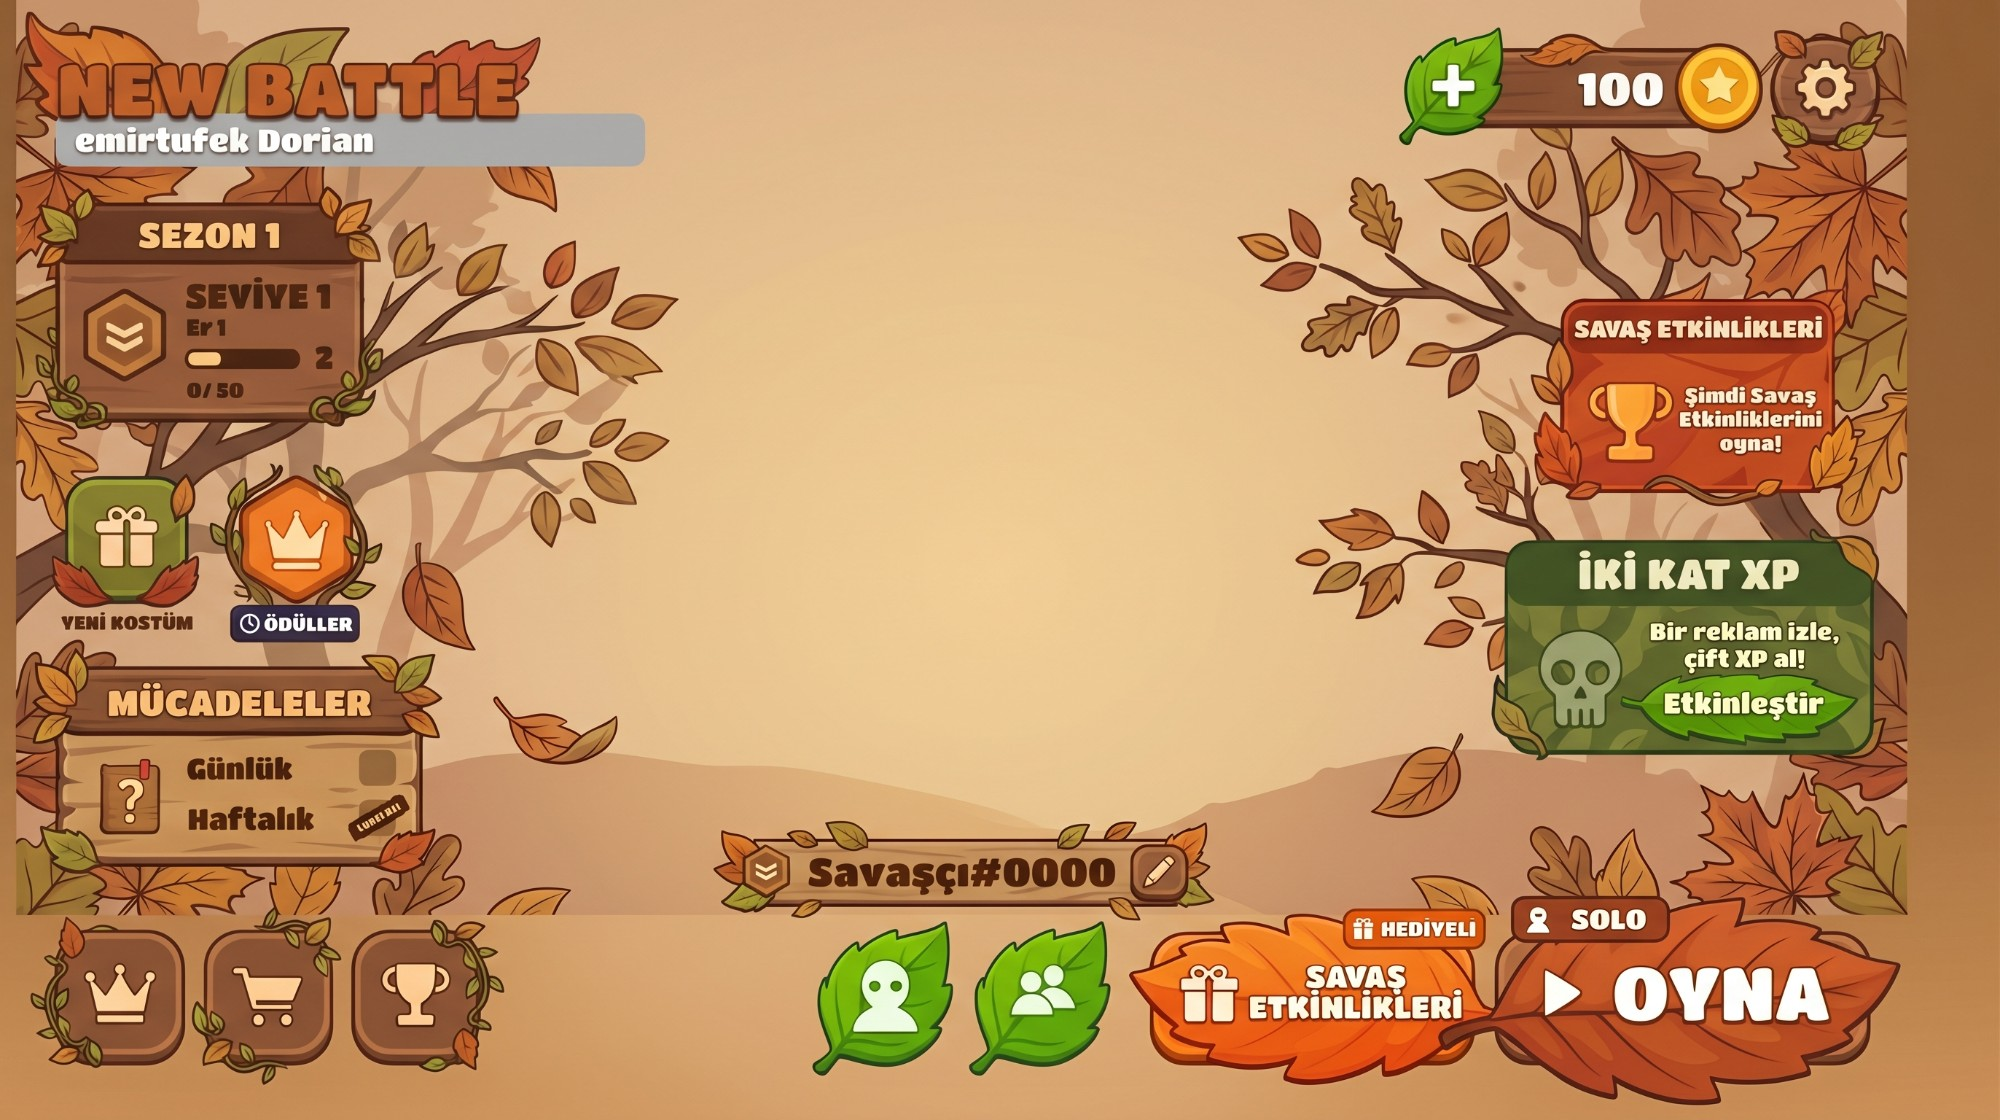
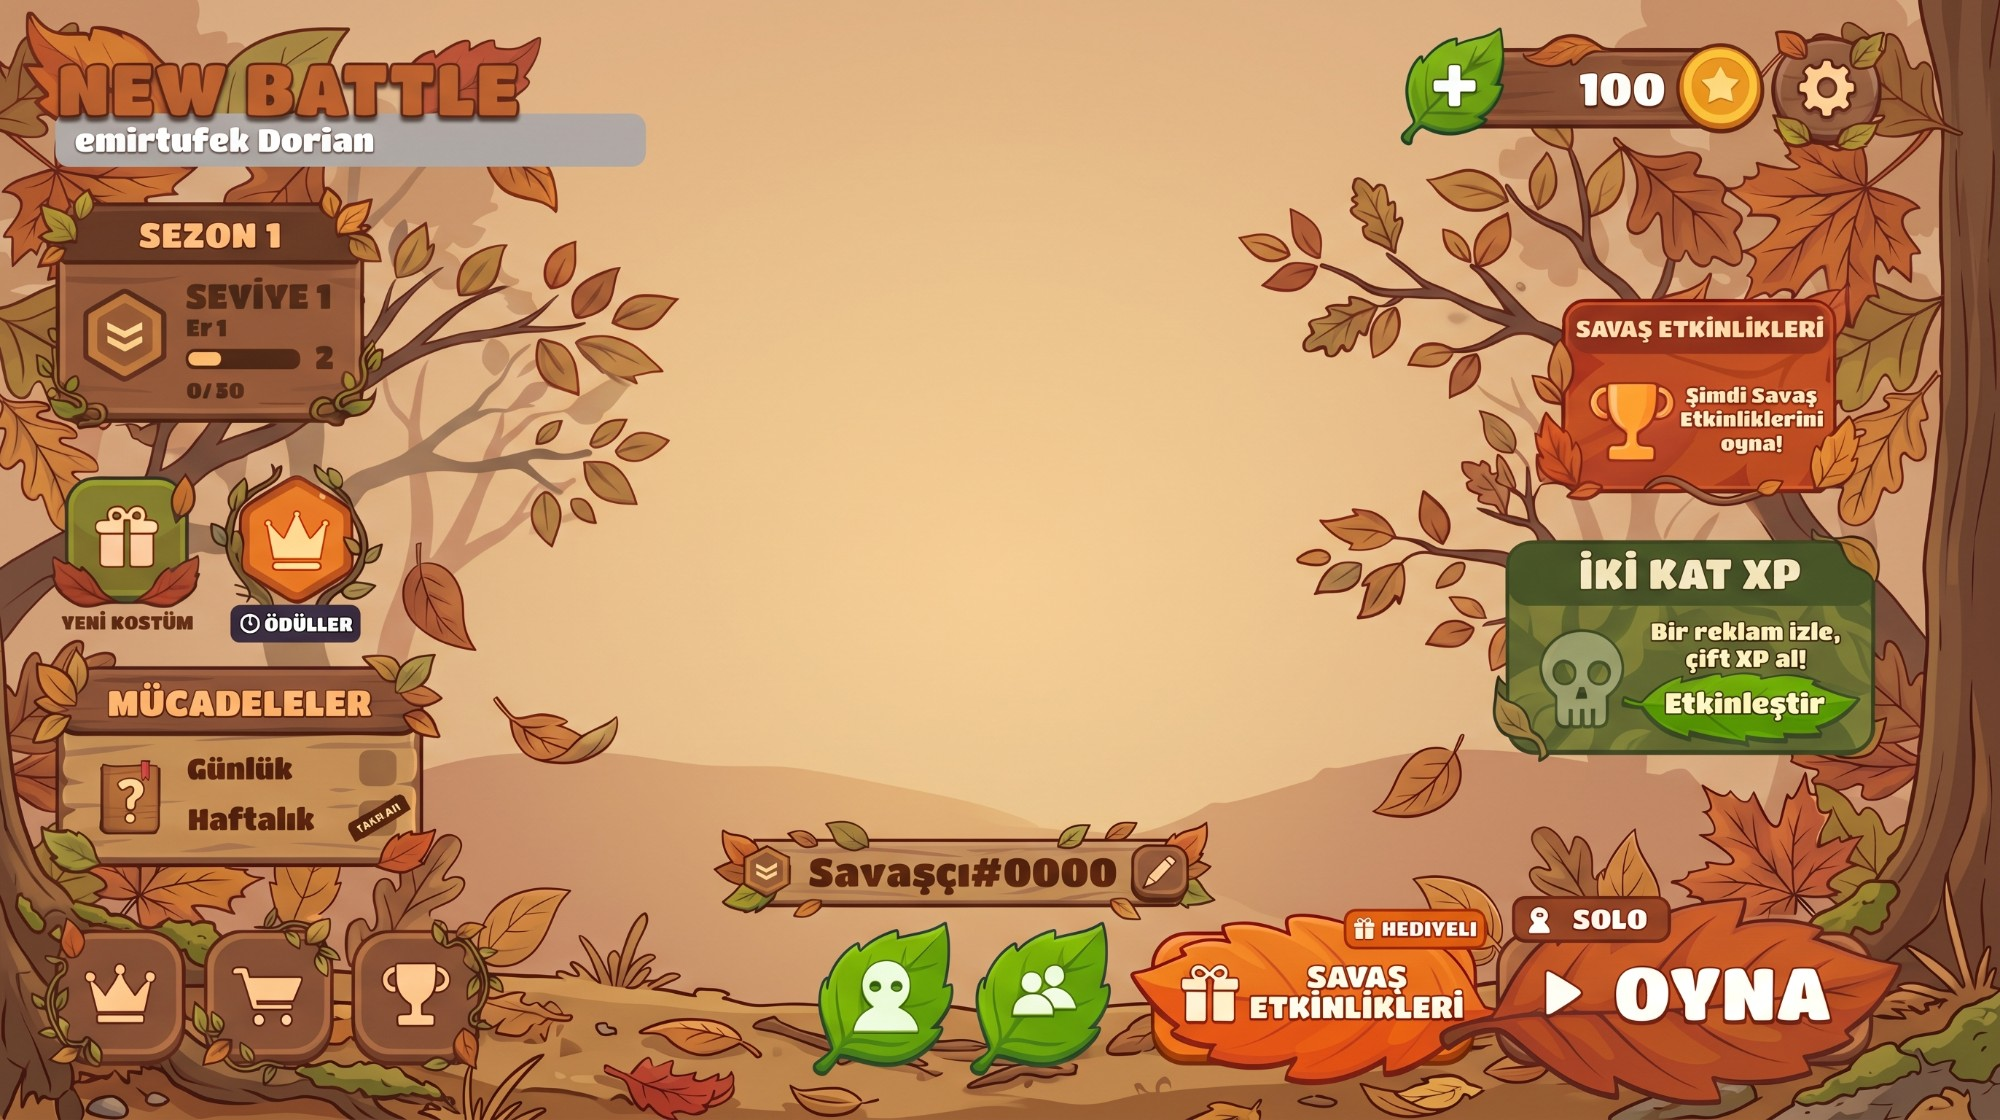
Ana menu yeni tasarim resmiyle bastan: tam resim (2000x1120) ekrani kaplar, alt ve sag kenar ormanli; logonun altindaki gri cubuk ve online sayaci kaldirildi; mevcut menu yeni olcuye gore yeniden yerlesir

diff --git a/Assets/Editor/Menu/MainMenuBuilder.AutumnMenu.cs b/Assets/Editor/Menu/MainMenuBuilder.AutumnMenu.cs
@@ -10,18 +10,19 @@ namespace NewBattle.EditorTools
 {
     /// <summary>
     /// Sonbahar ana menu = kullanicinin tasarim resmi birebir (tasarim_sonbahar.png).
-    ///   - Resim ana menunun gorunumudur (oran korunur, kenarlarda bg_sonbahar).
+    ///   - Resim ana menunun gorunumudur, ekrani tam kaplar (eski menu hic gorunmez).
     ///   - Butonlar resimdeki buton resimlerinin tam ustunde gorunmez basma alanlari.
-    ///   - Degisen yazilar (para, seviye, XP, isim, mod, online, cift XP) resimden silindi;
-    ///     yerine oyunun gercek degerleri ayni yere yazilir.
-    /// Koordinatlar tasarim resminin piksel olcusunde (2000x1120 kaynak, soldan 16 px kirpik).
-    /// Unity derleyince bir kez kendiliginden uygulanir. Geri: tag "safe-oncesi-sonbahar-menu".
+    ///   - Degisen yazilar (para, seviye, XP, isim, mod, cift XP) resimden silindi;
+    ///     yerine oyunun gercek degerleri ayni yere yazilir. Logonun altindaki gri cubuk ve
+    ///     online sayaci yok.
+    /// Koordinatlar tasarim resminin piksel olcusunde (2000x1120, tam resim).
+    /// Unity derleyince bir kez kendiliginden uygulanir (resim olcusu degisince yeniden yerlesir). Geri: tag "safe-oncesi-sonbahar-menu".
     /// </summary>
     public static partial class MainMenuBuilder
     {
         private const string DesignSprite = "tasarim_sonbahar";
         private const string DesignBackground = "bg_sonbahar";
-        private const float DesignLeft = 16f, DesignWidth = 1884f, DesignHeight = 1120f;
+        private const float DesignLeft = 0f, DesignWidth = 2000f, DesignHeight = 1120f;
 
         private static readonly (string name, Vector4 rect)[] DesignHits =
         {
@@ -64,8 +65,16 @@ namespace NewBattle.EditorTools
 
             Canvas canvas = FindGameCanvas();
             MainMenuScreen screen = canvas != null ? canvas.GetComponentInChildren<MainMenuScreen>(true) : null;
-            if (screen != null && screen.transform.Find("Tasarim") == null)
+            if (screen != null && !AutumnMenuCurrent(screen.transform))
                 ApplyAutumnMenu(screen.transform);
+        }
+
+        /// <summary>Tasarim katmani var ve guncel resim olcusuyle tam ekran mi?</summary>
+        private static bool AutumnMenuCurrent(Transform root)
+        {
+            AspectRatioFitter fitter = root.Find("Tasarim")?.GetComponent<AspectRatioFitter>();
+            return fitter != null && fitter.aspectMode == AspectRatioFitter.AspectMode.None &&
+                   Mathf.Abs(fitter.aspectRatio - DesignWidth / DesignHeight) < 0.001f;
         }
 
         [MenuItem("Tools/NewBattle/Menü/Sonbahar Ana Menü (tasarım resmi)", false, 6)]
@@ -73,7 +82,7 @@ namespace NewBattle.EditorTools
         {
             Canvas canvas = FindGameCanvas();
             MainMenuScreen screen = canvas != null ? canvas.GetComponentInChildren<MainMenuScreen>(true) : null;
-            if (screen != null && screen.transform.Find("Tasarim") == null)
+            if (screen != null)
                 ApplyAutumnMenu(screen.transform);
         }
 
@@ -97,33 +106,46 @@ namespace NewBattle.EditorTools
                 menuBackground.color = Color.white;
             }
 
-            // Tasarim resmi: oran korunur, ekrana sigar (genis telefonda kenarlarda arka plan).
-            RectTransform layer = NewRect("Tasarim", rootRect);
-            Undo.RegisterCreatedObjectUndo(layer.gameObject, "Tasarim");
-            Stretch(layer, 0f, 0f, 0f, 0f);
-            Image layerImage = AddImage(layer, design, Color.white);
-            layerImage.type = Image.Type.Simple;
-            AspectRatioFitter fitter = layer.gameObject.AddComponent<AspectRatioFitter>();
-            fitter.aspectMode = AspectRatioFitter.AspectMode.FitInParent;
+            // Tasarim resmi: ekrani tam kaplar (oran farki kucuk; basma alanlari resimle birlikte uzar).
+            // Varsa ayni katman yeni resme gore yeniden yerlesir.
+            RectTransform layer = root.Find("Tasarim") as RectTransform;
+            if (layer == null)
+            {
+                layer = NewRect("Tasarim", rootRect);
+                Undo.RegisterCreatedObjectUndo(layer.gameObject, "Tasarim");
+                AddImage(layer, design, Color.white).type = Image.Type.Simple;
+                layer.gameObject.AddComponent<AspectRatioFitter>();
+            }
+
+            Image layerImage = layer.GetComponent<Image>();
+            Undo.RecordObject(layerImage, "Resim");
+            layerImage.sprite = design;
+            layerImage.color = Color.white;
+            AspectRatioFitter fitter = layer.GetComponent<AspectRatioFitter>();
+            Undo.RecordObject(fitter, "Oran");
+            fitter.aspectMode = AspectRatioFitter.AspectMode.None;
             fitter.aspectRatio = DesignWidth / DesignHeight;
+            Undo.RecordObject(layer, "Tam ekran");
+            Stretch(layer, 0f, 0f, 0f, 0f);
+            layer.localScale = Vector3.one;
             layer.SetAsFirstSibling();
 
             Color cream = Hex("#F6E2C2");
             Color ink = Hex("#4E2D14");
 
             // Degisen yazilar once disari alinir (gizlenen kartlarin icinde kalmasinlar).
-            Transform season = FindDeep(root, "SezonKarti");
-            Transform wallet = FindDeep(root, "ParaPaneli");
-            Transform nameTag = FindDeep(root, "IsimEtiketi");
-            Transform play = FindDeep(root, "OynaButonu");
+            // Ekranin baglantilarindan bulunur: onceki uygulamada tasarim katmanina tasinmis olabilirler.
+            var screenRefs = new SerializedObject(root.GetComponent<MainMenuScreen>());
+            Transform Ref(string field) => (screenRefs.FindProperty(field)?.objectReferenceValue as Component)?.transform;
             Transform doubleXp = FindDeep(root, "CiftXpKarti");
+            Transform modeChip = Ref("modeChipText");
 
-            Overlay(wallet?.Find("ParaMiktari"), layer, new Vector4(1572, 58, 1672, 120), cream, TextAlignmentOptions.Center);
-            Overlay(season?.Find("Seviye"), layer, new Vector4(184, 276, 342, 318), cream, TextAlignmentOptions.Left);
-            Overlay(season?.Find("Rutbe"), layer, new Vector4(184, 316, 300, 342), cream, TextAlignmentOptions.Left);
-            Overlay(season?.Find("SonrakiSeviye"), layer, new Vector4(302, 338, 342, 374), cream, TextAlignmentOptions.Center);
-            Overlay(season?.Find("XpYazisi"), layer, new Vector4(184, 376, 300, 404), cream, TextAlignmentOptions.Left);
-            Transform xpBar = season?.Find("XpBari");
+            Overlay(Ref("coinText"), layer, new Vector4(1572, 58, 1672, 120), cream, TextAlignmentOptions.Center);
+            Overlay(Ref("levelText"), layer, new Vector4(184, 276, 342, 318), cream, TextAlignmentOptions.Left);
+            Overlay(Ref("rankText"), layer, new Vector4(184, 316, 300, 342), cream, TextAlignmentOptions.Left);
+            Overlay(Ref("nextLevelText"), layer, new Vector4(302, 338, 342, 374), cream, TextAlignmentOptions.Center);
+            Overlay(Ref("xpText"), layer, new Vector4(184, 376, 300, 404), cream, TextAlignmentOptions.Left);
+            Transform xpBar = Ref("xpFill")?.parent;
             if (xpBar is RectTransform xpRect)
             {
                 MapTo(xpRect, layer, new Vector4(184, 346, 298, 368));
@@ -131,10 +153,23 @@ namespace NewBattle.EditorTools
                 PaintImage(xpRect.Find("Dolum"), cream);
             }
 
-            Overlay(nameTag?.Find("Isim"), layer, new Vector4(806, 846, 1120, 898), ink, TextAlignmentOptions.Center);
-            Overlay(play?.Find("ModEtiketi/Yazi"), layer, new Vector4(1578, 902, 1662, 938), cream, TextAlignmentOptions.Center);
-            Overlay(FindDeep(root, "OnlineSayac"), layer, new Vector4(70, 116, 640, 162), Hex("#5A3A20"), TextAlignmentOptions.Left);
-            Overlay(doubleXp?.Find("Yazi"), layer, new Vector4(1636, 612, 1842, 676), Color.white, TextAlignmentOptions.Center);
+            Overlay(Ref("playerNameText"), layer, new Vector4(806, 846, 1120, 898), ink, TextAlignmentOptions.Center);
+            Overlay(modeChip, layer, new Vector4(1578, 902, 1662, 938), cream, TextAlignmentOptions.Center);
+            Transform doubleXpText = doubleXp?.Find("Yazi");
+            if (doubleXpText == null)
+            {
+                foreach (Transform child in layer)
+                    if (child.name == "Yazi" && child != modeChip)
+                        doubleXpText = child;
+            }
+            Overlay(doubleXpText, layer, new Vector4(1636, 612, 1842, 676), Color.white, TextAlignmentOptions.Center);
+
+            // Logonun altindaki gri cubuk / online sayaci istenmiyor: yazi kapanir.
+            if (Ref("onlineText") is Transform online && online.TryGetComponent(out TextMeshProUGUI onlineLabel))
+            {
+                Undo.RecordObject(onlineLabel, "Gizle");
+                onlineLabel.enabled = false;
+            }
 
             // Butonlar: resmin ustunde gorunmez basma alanlari.
             foreach ((string name, Vector4 rect) in DesignHits)

diff --git a/Tools/MenuArt/tasarim_hazirla.py b/Tools/MenuArt/tasarim_hazirla.py
@@ -1,12 +1,11 @@
 """
 Sonbahar menu tasarimlari: kullanicinin verdigi resimlerden oyun gorsellerini hazirlar.
   kaynak/sonbahar_arkaplan.jpg -> Assets/GameArt/MenuUI/bg_sonbahar.png (kenar kirpik)
-  kaynak/sonbahar_tasarim.jpg  -> Assets/GameArt/MenuUI/tasarim_sonbahar.png
-     - alttaki duz zemin seridi yerine orman devam eder (butonlar korunur)
+  kaynak/sonbahar_tasarim.jpg  -> Assets/GameArt/MenuUI/tasarim_sonbahar.png (tam resim, 2000x1120)
      - degisen yazilar silinir (para, seviye, isim, mod, online, cift XP); oyun canli yazar.
        Tahtalarda yazinin solundaki / sagindaki temiz tahtadan satir satir doku tasinir
-       (damarlar yatay oldugu icin bulaniklik olmaz); sahne uzerindeki yerlere bos arka
-       plan resmi konur.
+       (damarlar yatay oldugu icin bulaniklik olmaz). Logonun altindaki gri cubuk (yazisiyla)
+       tamamen kaldirilir, yerine bos arka plan resmi konur.
   kaynak/oyunmodu_tasarim.jpg  -> Assets/GameArt/MenuUI/tasarim_oyunmodu.png (oyun modu penceresi)
 
 Calistir:   python Tools/MenuArt/tasarim_hazirla.py   (opencv-python gerekir)
@@ -21,8 +20,7 @@ import numpy as np
 HERE = os.path.dirname(os.path.abspath(__file__))
 ROOT = os.path.dirname(os.path.dirname(HERE))
 OUT = os.path.join(ROOT, "Assets", "GameArt", "MenuUI")
-LEFT, RIGHT = 16, 1900  # resimlerin kenarlarindaki koyu cerceve disarida kalsin
-BAND_TOP = 912          # ana menu resminde alttaki duz zemin seridinin basladigi satir
+LEFT, RIGHT = 16, 1900  # arka plan resminin kenarlarindaki koyu cerceve disarida kalsin
 
 # Tahta uzerindeki yazilar (satir satir doku tasima)
 PLANK_TEXT = {
@@ -33,10 +31,8 @@ PLANK_TEXT = {
     "mod": (1562, 904, 1652, 936),
     "ciftxp": (1636, 612, 1840, 676),
 }
-# Sahne uzerindeki yazilar (bos arka plan resminden)
-SCENE_TEXT = {
-    "online": (34, 117, 664, 180),
-}
+# Logonun altindaki gri cubuk: tamamen kaldirilir (bos arka plan resminden)
+GREY_BAR = (34, 117, 664, 180)
 
 rng = np.random.default_rng(3)
 
@@ -63,49 +59,33 @@ def feather_paste(dst, src, x0, y0, x1, y1, soft=6):
     dst[y0:y1, x0:x1] = (region * (1 - alpha) + src[y0:y1, x0:x1].astype(float) * alpha).astype(np.uint8)
 
 
-def band_buttons_mask(design):
-    """Alt seritteki butonlarin maskesi: zemin (yumusak renk gecisi) tahmin edilip ondan ayrilir."""
-    top = BAND_TOP - 20
-    band = design[top:].copy()
-    rough = np.abs(band.astype(float) - cv2.medianBlur(band, 151).astype(float)).max(axis=2) > 28
-    rough = cv2.dilate(rough.astype(np.uint8), np.ones((31, 31), np.uint8))
-    small = cv2.resize(band, None, fx=0.25, fy=0.25, interpolation=cv2.INTER_AREA)
-    small_mask = cv2.resize(rough, (small.shape[1], small.shape[0]), interpolation=cv2.INTER_NEAREST)
-    background = cv2.inpaint(small, small_mask * 255, 15, cv2.INPAINT_TELEA)
-    background = cv2.GaussianBlur(cv2.resize(background, (band.shape[1], band.shape[0])), (0, 0), 6)
-
-    diff = np.abs(band.astype(float) - background.astype(float)).max(axis=2)
-    mask = (diff > 20).astype(np.uint8)
-    mask = cv2.morphologyEx(mask, cv2.MORPH_CLOSE, np.ones((9, 9), np.uint8))
-    # delikleri doldur (butonun ici)
-    contours, _ = cv2.findContours(mask, cv2.RETR_EXTERNAL, cv2.CHAIN_APPROX_SIMPLE)
-    filled = np.zeros_like(mask)
-    for contour in contours:
-        if cv2.contourArea(contour) > 400:
-            cv2.drawContours(filled, [contour], -1, 1, thickness=-1)
-    filled = cv2.dilate(filled, np.ones((5, 5), np.uint8))
-    soft = cv2.GaussianBlur(filled.astype(float), (0, 0), 2.0)
-    full = np.zeros(design.shape[:2], float)
-    full[top:] = soft
-    full[:BAND_TOP] = 1.0  # serit ustu: tasarim aynen
-    return full
-
-
-def extend_forest(design, background):
-    """Alt serit: arka plan sahnesinin alt kismi aynalanarak orman asagi devam eder."""
-    height = design.shape[0] - BAND_TOP
-    scene = background[BAND_TOP - height:BAND_TOP][::-1]
-    shade = np.linspace(1.0, 0.86, height)[:, None, None]
-    ground = (scene.astype(float) * shade).astype(np.uint8)
-    out = design.copy()
-    out[BAND_TOP:] = ground
-    # dikis yeri yumusak: tasarimin son satirlari ile karisir
-    blend = 24
-    for i in range(blend):
-        a = (i + 1) / (blend + 1)
-        y = BAND_TOP + i
-        out[y] = (design[BAND_TOP - 1 - i].astype(float) * (1 - a) + ground[i].astype(float) * a).astype(np.uint8)
-    return out
+def remove_grey_bar(design, clean):
+    """Logonun altindaki gri cubugu siler; logonun harfleri ve koyu kenari kalir."""
+    # Bos arka plan tasarimdan biraz farkli tonda: cubugun cevresindeki fark yumusakca iceri
+    # tasinip arka plana eklenir (yapistirilan yerin kenari gorunmesin).
+    x0, y0, x1, y1 = GREY_BAR
+    outside = np.ones(design.shape[:2], float)
+    outside[y0 - 4:y1 + 4, x0 - 4:x1 + 4] = 0.0
+    diff = design.astype(float) - clean.astype(float)
+    outside *= np.abs(diff).max(axis=2) < 25  # logo / yaprak gibi farkli icerik sayilmaz
+    weight = cv2.GaussianBlur(outside, (0, 0), 30)[..., None]
+    offset = cv2.GaussianBlur(diff * outside[..., None], (0, 0), 30) / np.maximum(weight, 1e-3)
+    clean = np.clip(clean.astype(float) + offset, 0, 255).astype(np.uint8)
+    feather_paste(design, clean, *GREY_BAR, soft=3)
+    # Cubugun logoya degen ust kenari: arka plandan daha gri (renksiz) ama ayni parlaklikta
+    # pikseller temizlenir.
+    strip = design[100:128, 34:664].astype(float)
+    base = clean[100:128, 34:664].astype(float)
+    chroma = strip.max(axis=2) - strip.min(axis=2)
+    base_chroma = base.max(axis=2) - base.min(axis=2)
+    same_light = np.abs(strip.mean(axis=2) - base.mean(axis=2)) < 35
+    alpha = (np.clip((base_chroma - chroma) / 20.0, 0, 1) * same_light)[..., None]
+    design[100:128, 34:664] = (strip * (1 - alpha) + base * alpha).astype(np.uint8)
+    # Arka planin farkli oldugu yerde (yaprak ustu) kalan ince gri parcalar komsulardan tamamlanir.
+    strip = design[100:128, 34:664].astype(int)
+    leftover = ((strip.max(axis=2) - strip.min(axis=2) < 50) & (strip.mean(axis=2) > 120)).astype(np.uint8)
+    leftover = cv2.dilate(leftover, np.ones((3, 3), np.uint8))
+    design[100:128, 34:664] = cv2.inpaint(design[100:128, 34:664], leftover * 255, 3, cv2.INPAINT_TELEA)
 
 
 if __name__ == "__main__":
@@ -114,34 +94,10 @@ if __name__ == "__main__":
     cv2.imwrite(os.path.join(OUT, "bg_sonbahar.png"), background)
 
     design = cv2.imread(os.path.join(HERE, "kaynak", "sonbahar_tasarim.jpg"))
-    clean = cv2.resize(background_src, (design.shape[1], design.shape[0]))
-
-    # Alt serit: orman devam eder, butonlar uzerine geri konur.
-    keep = band_buttons_mask(design)[..., None]
-    forest = extend_forest(design, clean)
-    design = (forest.astype(float) * (1 - keep) + design.astype(float) * keep).astype(np.uint8)
-
     for x0, y0, x1, y1 in PLANK_TEXT.values():
         design = plank_fill(design, x0, y0, x1, y1)
-    for x0, y0, x1, y1 in SCENE_TEXT.values():
-        feather_paste(design, clean, x0, y0, x1, y1, soft=3)
-    # Online cubugunun logoya degen ust kenari: arka plandan daha gri (renksiz) ama ayni
-    # parlaklikta pikseller temizlenir; logonun turuncu harfleri ve koyu kenari kalir.
-    strip = design[100:128, 34:664].astype(float)
-    base = clean[100:128, 34:664].astype(float)
-    chroma = strip.max(axis=2) - strip.min(axis=2)
-    base_chroma = base.max(axis=2) - base.min(axis=2)
-    same_light = np.abs(strip.mean(axis=2) - base.mean(axis=2)) < 35
-    alpha = (np.clip((base_chroma - chroma) / 20.0, 0, 1) * same_light)[..., None]
-    design[100:128, 34:664] = (strip * (1 - alpha) + base * alpha).astype(np.uint8)
-    # Arka planin farkli oldugu yerde (yaprak ustu) kalan ince gri parcalar: komsu
-    # piksellerden tamamlanir (birkac piksel yukseklik, bulaniklik gorunmez).
-    strip = design[100:128, 34:664].astype(int)
-    leftover = ((strip.max(axis=2) - strip.min(axis=2) < 50) & (strip.mean(axis=2) > 120)).astype(np.uint8)
-    leftover = cv2.dilate(leftover, np.ones((3, 3), np.uint8))
-    design[100:128, 34:664] = cv2.inpaint(design[100:128, 34:664], leftover * 255, 3, cv2.INPAINT_TELEA)
-
-    cv2.imwrite(os.path.join(OUT, "tasarim_sonbahar.png"), design[:, LEFT:RIGHT])
+    remove_grey_bar(design, cv2.resize(background_src, (design.shape[1], design.shape[0])))
+    cv2.imwrite(os.path.join(OUT, "tasarim_sonbahar.png"), design)
 
     # Oyun modu penceresi (tam ekran, 2000x1116): sabit tik bos kutuyla degisir (secim canli);
     # isim, para, cift XP ve ipucu yazilari silinir (oyun yazar).
